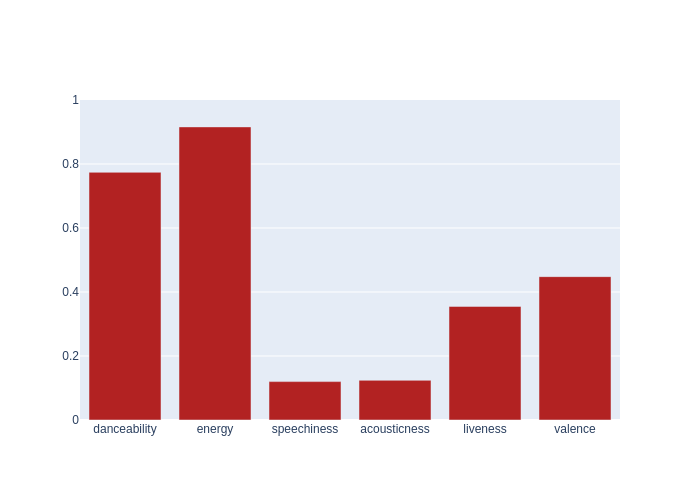
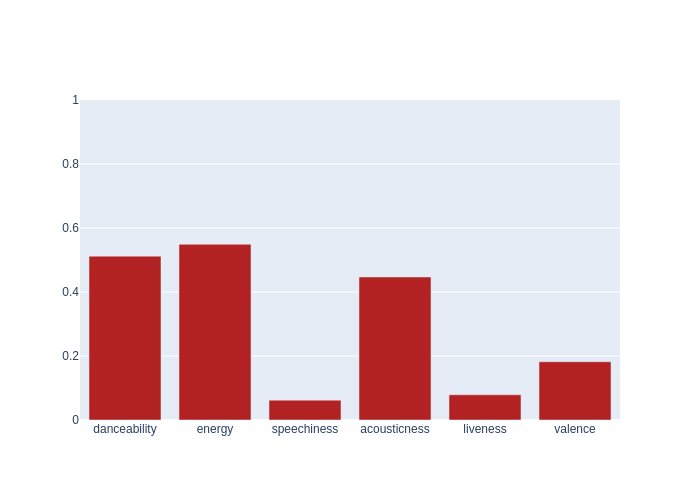
Automated README update

Changed region(s): [[0.36, 0.54, 0.87, 0.81], [0.12, 0.24, 0.36, 0.54]]

diff --git a/README.md b/README.md
@@ -4,7 +4,7 @@ Automated music metrics for fun, updated hourly.
 
 ## Spotify
 
-- currently listening to **Galoski - Casualty**
+- currently listening to **Triple One - Time After Time (triple j Like A Version)**
 
 - **927** liked songs
 - **157** playlists
